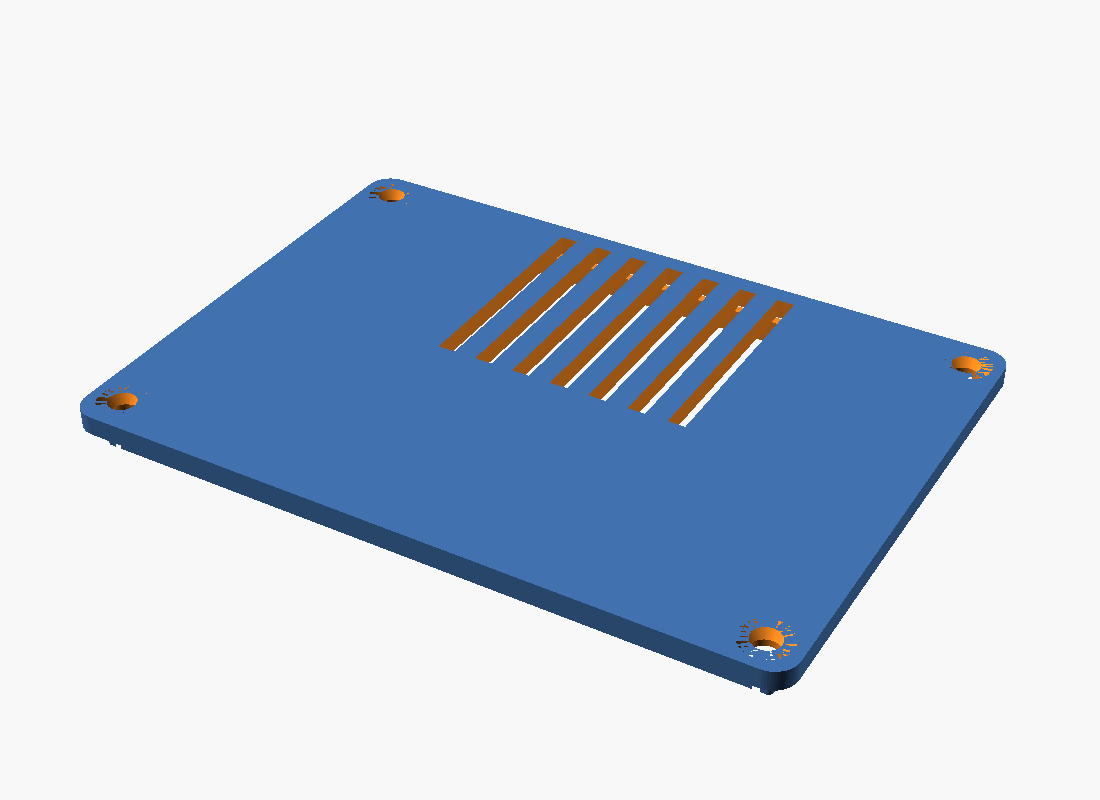
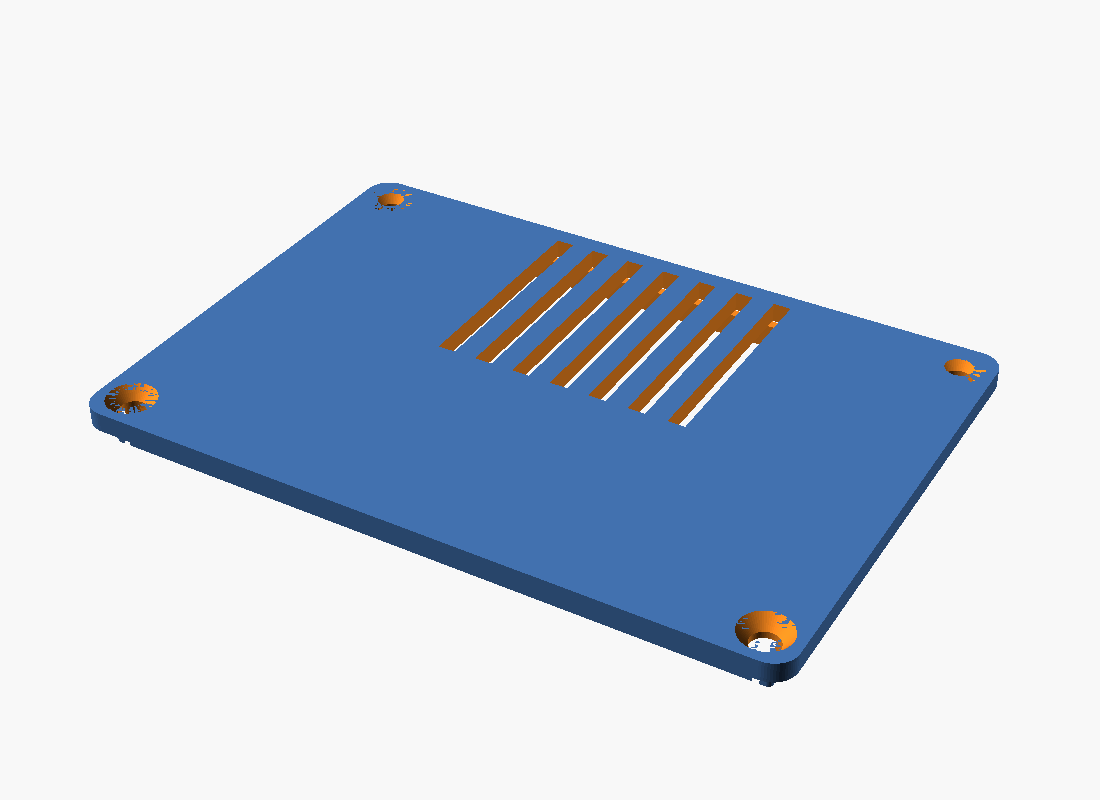
cad: medidas de la K10 por fotogrametría (PCB 79x53 mm)
Estimadas las cotas del PCB desde las fotos del reversing usando el MCU
GD32F303 LQFP48 (cuerpo 7.0 mm, verificado contando pines ~12/lado) como
regla de escala (0.0419 mm/px).

- Contorno PCB: 79 x 53 mm (alta confianza +-2 mm; aspecto 1.50 por ambas caras).
- Patron de agujeros ~72x44 mm c-a-c (confianza media +-2-3 mm) -> no fiar a ciegas,
  retencion por contorno + tapa; verificar con calibre.
- Altura de componentes: no medible desde cenital -> COMP_H provisional 17 mm.
- k10_enclosure.scad actualizado con las medidas; sigue watertight.
- reference/medidas-fotogrametria.md: metodo, referencias y confianza.

diff --git a/reference/medidas-fotogrametria.md b/reference/medidas-fotogrametria.md
@@ -1,0 +1,45 @@
+# Medidas de la placa K10 por fotogrametría
+
+Como no hay cotas publicadas del PCB de la K10, se estimaron a partir de las fotos cenitales del
+reversing usando un **componente de tamaño estándar como regla**. Método reproducible con
+`reference/images/` + OpenCV (scripts ad-hoc).
+
+## Método
+
+1. **Referencia de escala = encapsulado del MCU.** El chip se lee como **GD32F303 (GigaDevice, ARM)**.
+   Se contaron los pines por lado mediante perfil de intensidad: **~12 pines/lado → LQFP48**
+   (no LQFP64). El LQFP48 tiene **cuerpo de 7.0 mm** (lead-span 9.0 mm).
+2. Medido el cuerpo del MCU en la foto frontal: **≈167 px** → escala **0.0419 mm/px**
+   (cross-check con lead-span 9 mm ≈ 220 px → 0.0409 mm/px; coinciden en ~0.041).
+3. Contorno del PCB por perfiles de brillo (placa oscura sobre fondo claro), en ambas caras.
+
+## Resultados
+
+| Magnitud | Valor | Confianza | Notas |
+|----------|-------|-----------|-------|
+| **Contorno PCB** | **79 × 53 mm** | Alta (±2 mm) | Aspecto 1.50 coincide por las dos caras |
+| Grosor PCB | 1.6 mm | Asumido | estándar de industria |
+| Patrón de agujeros (4 esquinas) | ~72 × 44 mm centro-a-centro | Media (±2-3 mm) | esquinas inferiores ruidosas (QR/botón) |
+| Inset de agujeros desde borde | ~3.5 × 4.5 mm | Media | derivado del patrón |
+| **Altura de componentes** | **NO medible** | — | las fotos cenitales no dan altura; usar calibre |
+
+## Escala — verificación cruzada
+
+- Frontal: 1881 × 1258 px × 0.0419 = **78.8 × 52.7 mm** (aspecto 1.495).
+- Trasera: 1882 × 1191 px (aspecto 1.580; ligero escorzo vertical o sobresale el botón redondo).
+- Ambas dan ~79 mm de ancho → el contorno es robusto.
+
+## Implicación de diseño
+
+- El **contorno (79×53)** es fiable → la caja se dimensiona con seguridad.
+- El **patrón de agujeros** NO es lo bastante preciso para alinear standoffs a ciegas.
+  → La caja debe **retener el PCB por su contorno** (repisa perimetral + presión de la tapa),
+  usando los standoffs solo como apoyo aproximado. Verificar los 4 agujeros con calibre antes de
+  fijar tornillos de PCB.
+- **COMP_H (altura)**: medir con calibre el componente más alto (condensadores/conectores). Solo
+  afecta al alto de la caja, que lleva margen; valor provisional 17 mm.
+
+## Layout de puertos por borde (verificado en fotos)
+
+- Borde con 4 conectores de motor (X/Y/Z/E) | jack DC 12V + USB-C | mazo del cabezal (HE+TH+FAN) |
+  ranura microSD | botones del reverso (S3 Retract, S4 Feed, S5 ▲ Print, S6-S9 niveles).